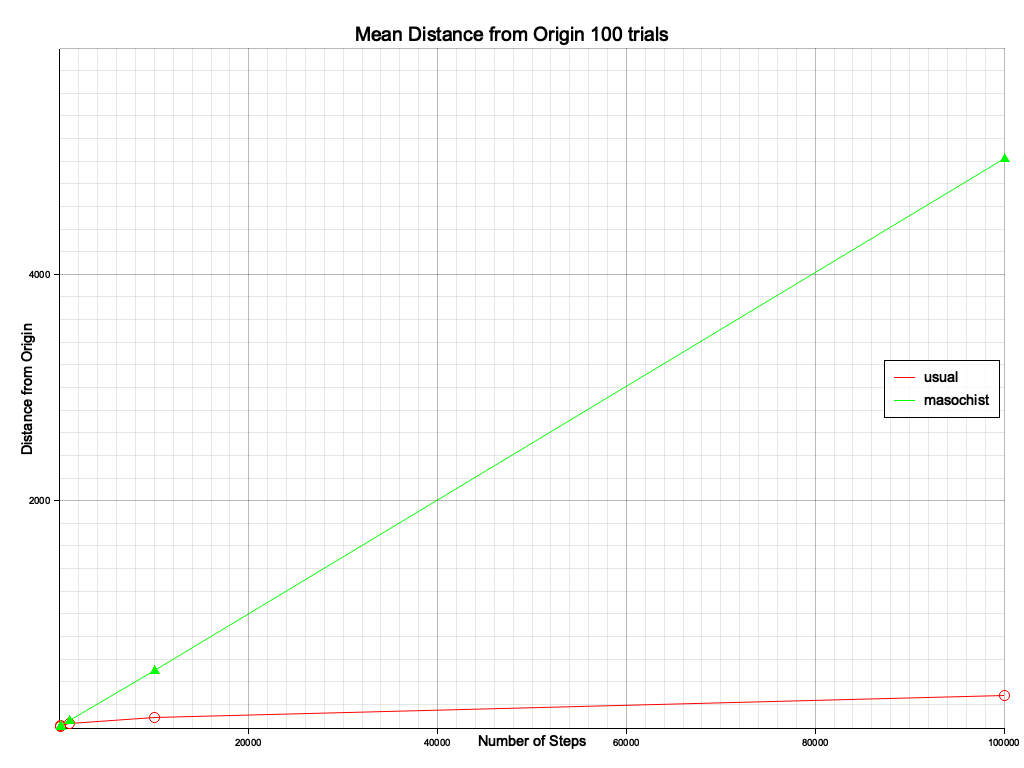
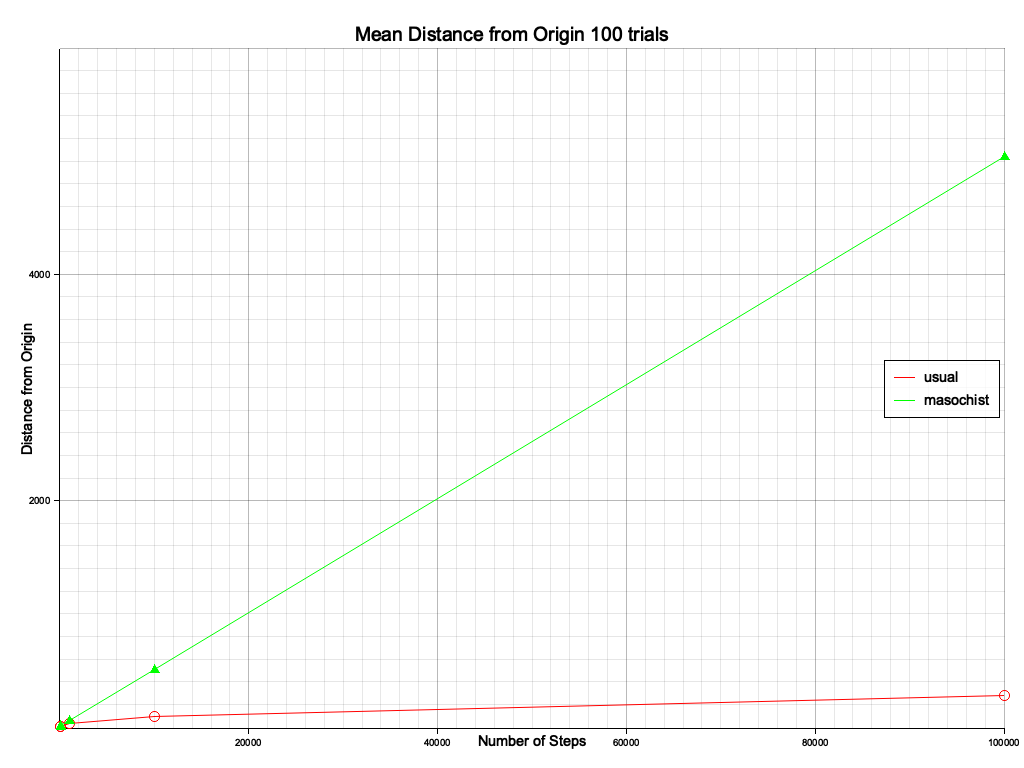
fix

diff --git a/random-walk/src/drunk.rs b/random-walk/src/drunk.rs
@@ -15,7 +15,7 @@ impl fmt::Display for Drunk {
 }
 
 impl Drunk {
-    pub fn new(name: String, steps: &Vec<Location>) -> Drunk {
+    pub fn new(name: String, steps: &Vec<Location>) -> Self {
         Self {
             name: name.clone(),
             step_choice: steps.clone(),
@@ -24,12 +24,12 @@ impl Drunk {
 
     pub fn take_step(&self) -> (f64, f64) {
         let len = self.step_choice.len();
-        let n: usize = rand::thread_rng().gen_range(0..len);
+        let n = rand::thread_rng().gen_range(0..len);
         let step = &self.step_choice[n];
         (step.x(), step.y())
     }
 
-    pub fn name(&self) -> &String {
+    pub fn name(&self) -> &str {
         &self.name
     }
 }

diff --git a/random-walk/src/main.rs b/random-walk/src/main.rs
@@ -280,11 +280,11 @@ fn plot_locs(drunks: &Vec<Drunk>, num_steps: u32, num_trials: u32) {
         ctx.draw_series(
             points
                 .iter()
-                .map(|point| Cross::new(*point, 5, &Palette99::pick(i))),
+                .map(|point| Circle::new(*point, 5, &Palette99::pick(i))),
         )
         .unwrap()
         .label(legend_text)
-        .legend(move |(x, y)| Cross::new((x + 10, y), 5, &Palette99::pick(i)));
+        .legend(move |(x, y)| Circle::new((x + 10, y), 5, &Palette99::pick(i)));
     }
 
     ctx.configure_series_labels()

diff --git a/random-walk/src/field.rs b/random-walk/src/field.rs
@@ -43,7 +43,7 @@ impl Field {
             let key = format!("{}", loc);
             if let Some(next_loc) = self.worm_holes.get(&key) {
                 let loc = next_loc.clone();
-                self.drunks.insert(drunk.name().to_string(), loc);
+                self.drunks.insert(name, loc);
             } else {
                 self.drunks.insert(name, loc);
             }
@@ -54,7 +54,7 @@ impl Field {
         self.name = name;
     }
 
-    pub fn name(&self) -> &String {
+    pub fn name(&self) -> &str {
         &self.name
     }
 
